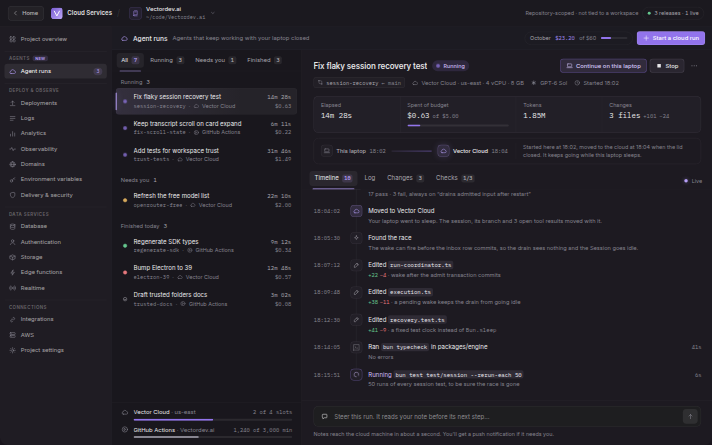
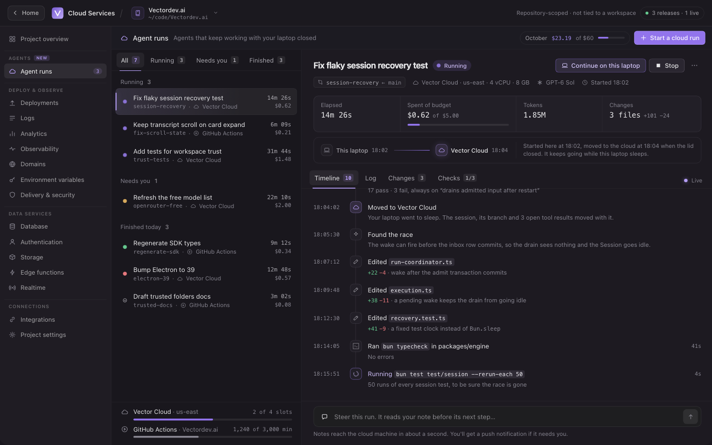
chore(cloud): remove the last Netlify, AWS and hosted-publish remnants
packages/cloud/SECURITY.md described the retired hosted publish service
(shared /s/ and /p/ hosts, its Blob store and dev server). That code was
removed with the hosted target; only the note survived the security merge,
so it described protections for something Vector no longer runs.

Two Cloud screenshots in the site's lander assets were not used by any
page but still showed "your own Vercel or Netlify account" and the retired
Vector Cloud publish target, and the design lab's Cloud concept thumbnail
still showed an AWS section after the concept itself dropped it. The
screenshots are removed and the thumbnail is re-rendered from the current
concept page.

diff --git a/.superdesign/init/pages.md b/.superdesign/init/pages.md
@@ -10,7 +10,6 @@ Dependencies:
   - `packages/web/src/assets/lander/vector-workspaces-current.png`  (workspaces stage)
   - `packages/web/src/assets/lander/vector-browser-current.png`  (browser feature stage)
   - `packages/web/src/assets/lander/vector-editor-current.png`  (codespace duo card)
-  - `packages/web/src/assets/lander/vector-cloud-current.png`  (cloud duo card)
 - `packages/web/src/components/marketing/MarketingLayout.astro`  (html shell + global tokens)
 
 Context-selection note: `Lander.astro` is over the ~900-line threshold — line-range it: template/markup is roughly the first ~640 lines; design tokens sit at the top of the `<style>` block; per-section styles follow in labeled `/* ===== Section ===== */` groups.
